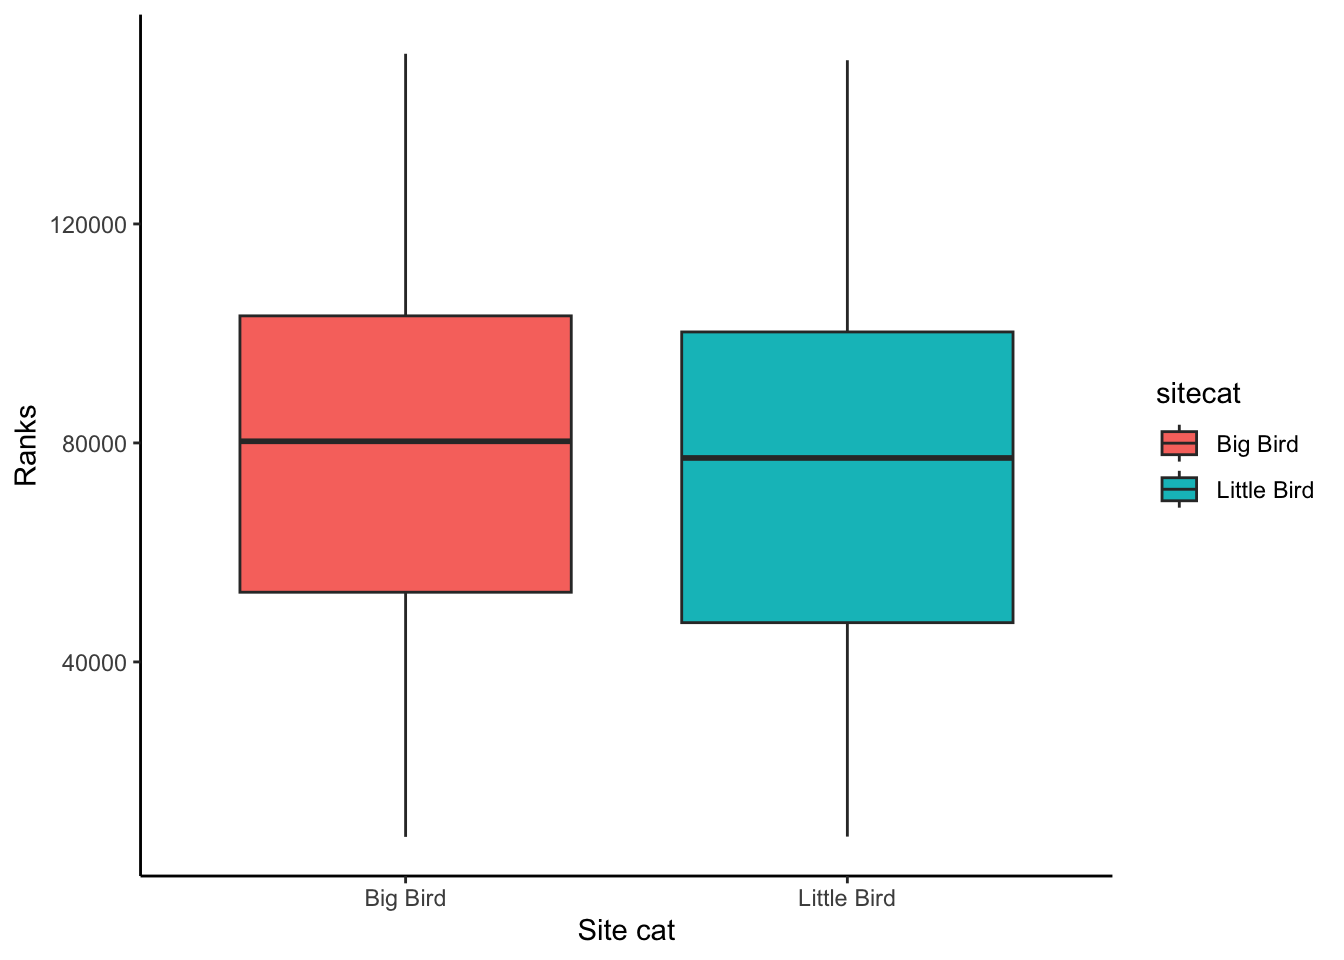
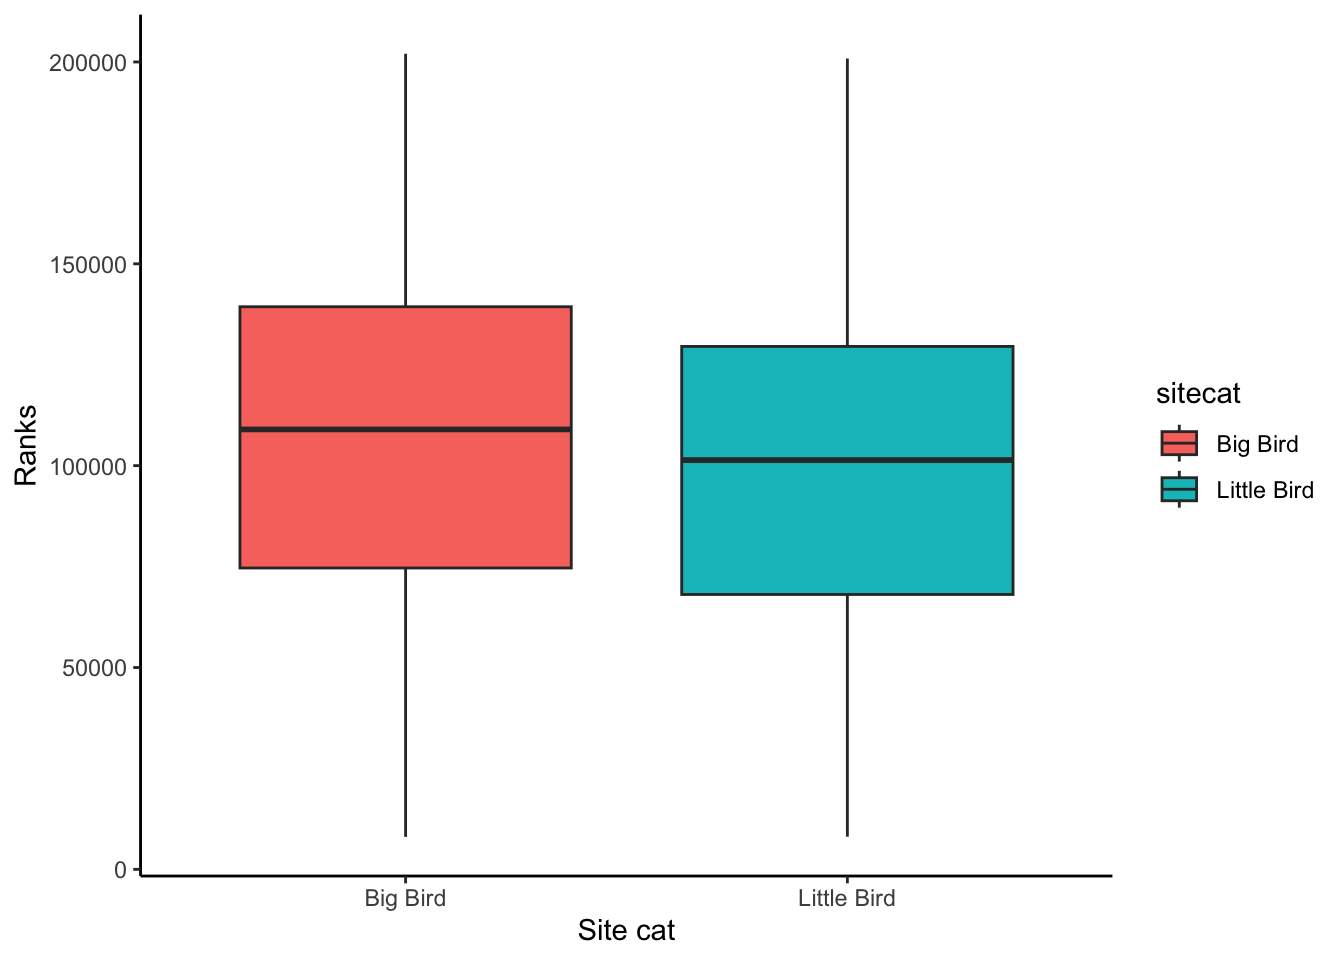
Fall 2024 bioacoustic dataset

diff --git a/docs/bioaco.html b/docs/bioaco.html
@@ -11,7 +11,7 @@
 
 <meta name="author" content="" />
 
-<meta name="date" content="2024-10-22" />
+<meta name="date" content="2024-10-28" />
 
 <title>Bioacoustic analyses</title>
 
@@ -384,6 +384,9 @@ div.tocify {
     <li>
       <a href="bioaco.html">Analyzing sound data</a>
     </li>
+    <li>
+      <a href="acoJoin.html">Joining external data</a>
+    </li>
   </ul>
 </li>
       </ul>
@@ -400,7 +403,7 @@ div.tocify {
 
 <h1 class="title toc-ignore">Bioacoustic analyses</h1>
 <h4 class="author"></h4>
-<h4 class="date">2024-10-22</h4>
+<h4 class="date">2024-10-28</h4>
 
 </div>
 
@@ -548,11 +551,11 @@ library(&quot;mosaic&quot;) # shuffle (permute) our data</code></pre>
 <h2><span class="header-section-number">2.2</span> 2: Read data</h2>
 <p>Next, we will pull in our data and inspect it.</p>
 <pre class="r"><code>### Load in dataset
-soundDF &lt;- readr::read_tsv(&quot;https://github.com/chchang47/BIOL104PO/raw/refs/heads/master/data/bioacousticAY22-23.tsv&quot;) # read in spreadsheet from its URL and store in soundDF
+soundDF &lt;- readr::read_tsv(&quot;https://github.com/EA30POM/site/raw/main/data/bioacousticAY22-24.tsv&quot;) # read in spreadsheet from its URL and store in soundDF
 
 ### Look at the first few rows
 soundDF</code></pre>
-<pre><code>## # A tibble: 151,468 × 8
+<pre><code>## # A tibble: 202,433 × 8
 ##    unit  date       time        ACI    SR DayNight Month season
 ##    &lt;chr&gt; &lt;date&gt;     &lt;chr&gt;     &lt;dbl&gt; &lt;dbl&gt; &lt;chr&gt;    &lt;chr&gt; &lt;chr&gt; 
 ##  1 CBio4 2023-03-23 18H 0M 0S  155.     3 Night    March Spring
@@ -565,7 +568,7 @@ soundDF</code></pre>
 ##  8 CBio4 2023-03-23 18H 7M 0S  152.     2 Night    March Spring
 ##  9 CBio4 2023-03-23 18H 8M 0S  152.     3 Night    March Spring
 ## 10 CBio4 2023-03-23 18H 9M 0S  153.     7 Night    March Spring
-## # ℹ 151,458 more rows</code></pre>
+## # ℹ 202,423 more rows</code></pre>
 <pre class="r"><code>### Look at the first few rows in a spreadsheet viewer
 soundDF %&gt;% head() %&gt;% View()</code></pre>
 <p>We see that there are the following columns:</p>
@@ -661,11 +664,11 @@ summary statistics and visualize your variable.</p>
 tapply(soundDF$ChangVar, soundDF$sitecat, summary) </code></pre>
 <pre><code>## $`Big Bird`
 ##    Min. 1st Qu.  Median    Mean 3rd Qu.    Max. 
-##    8046   52731   80302   77683  103211  151085 
+##    8046   74650  108979  105034  139365  202032 
 ## 
 ## $`Little Bird`
 ##    Min. 1st Qu.  Median    Mean 3rd Qu.    Max. 
-##    8095   47172   77256   73805  100275  149904</code></pre>
+##    8095   68090  101380   97349  129534  200852</code></pre>
 <pre class="r"><code>  # use sitecat as the grouping variable
   # for ChangVar and then summarize ChangVar
   # for each sitecat (site characteristics)</code></pre>
@@ -733,14 +736,14 @@ values of <code>ChangVar</code> for the Big Bird vs. Little Bird sites.
 We can start by calculating the mean difference we observe.</p>
 <pre class="r"><code>mean( ChangVar ~ sitecat, data = soundDF , na.rm=T) # show mean ChangVar values for the Big and Little Bird sites, removing missing data</code></pre>
 <pre><code>##    Big Bird Little Bird 
-##    77682.87    73805.17</code></pre>
+##   105033.65    97348.68</code></pre>
 <pre class="r"><code>obs_diff &lt;- diff( mean( ChangVar ~ sitecat, data = soundDF , na.rm=T)) # calculate the difference between the means and store in a variable called &quot;obs_diff&quot;
 obs_diff # display the value of obs_diff</code></pre>
 <pre><code>## Little Bird 
-##   -3877.701</code></pre>
+##   -7684.975</code></pre>
 <p>OK, so the mean difference in mean values between Big and Little Bird
-sites is -3877.7. Is this difference meaningful though? We can test that
-by specifying an opposing <strong>null hypothesis</strong>.</p>
+sites is -7684.97. Is this difference meaningful though? We can test
+that by specifying an opposing <strong>null hypothesis</strong>.</p>
 <p>In this case, our null hypothesis would be that there is no
 difference in <code>ChangVar</code> across <code>sitecat</code>.</p>
 <p>Logically, if there is a meaningful difference, then if we shuffle
@@ -761,13 +764,13 @@ names(randomizing_diffs)[1] &lt;- &quot;DiffMeans&quot; # change the name of the
 
 # View first few rows of data
 head(randomizing_diffs)</code></pre>
-<pre><code>##    DiffMeans
-## 1  201.91668
-## 2  107.21028
-## 3  -70.09207
-## 4 -259.21337
-## 5  -89.13740
-## 6  239.40673</code></pre>
+<pre><code>##     DiffMeans
+## 1  -81.402340
+## 2    8.934357
+## 3 -381.107355
+## 4 -164.055170
+## 5  137.156645
+## 6  -55.831277</code></pre>
 <p>Now we can visualize the distribution of simulated differences in the
 mean values of <code>ChangVar</code> at the Big and Little Bird sites
 versus our observed difference in means. Note that the observed
@@ -809,7 +812,7 @@ data.</p>
 <pre class="r"><code>### Calculate observed correlation
 obs_cor &lt;- cor(ChangVar ~ sitenum, data=soundDF, use=&quot;complete.obs&quot;) # store observed correlation in obs_cor of ChangVar vs sitenum
 obs_cor # print out value</code></pre>
-<pre><code>## [1] 0.05162087</code></pre>
+<pre><code>## [1] 0.06280265</code></pre>
 <p>Let’s say that I’m interested in determining if <code>ChangVar</code>
 is actually positively correlated with <code>sitenum</code>. We can test
 this against the opposing null hypothesis. Our null hypothesis could be
@@ -836,7 +839,7 @@ when we shuffle our data?</p>
 <pre class="r"><code>quantiles_cor &lt;- qdata( ~ cor, p = c(0.025, 0.975), data=randomizing_cor) # calculate the 2.5% and 97.5% quantiles in our simulated correlation coefficient data (note that 97.5-2.5 = 95!)
 quantiles_cor # display the quantiles</code></pre>
 <pre><code>##       2.5%      97.5% 
-## 0.04668164 0.05687103</code></pre>
+## 0.05849326 0.06710745</code></pre>
 <p>The values above give us a 95% confidence interval estimate for our
 correlation coefficient!</p>
 <p>Do we clearly see that our correlation coefficient distribution does
@@ -872,7 +875,7 @@ library(&quot;mosaic&quot;) # shuffle (permute) our data
 ###=========================================
 
 ### Load in dataset
-soundDF &lt;- readr::read_tsv(&quot;https://github.com/chchang47/BIOL104PO/raw/refs/heads/master/data/bioacousticAY22-23.tsv&quot;) # read in spreadsheet from its URL and store in soundDF
+soundDF &lt;- readr::read_tsv(&quot;https://github.com/EA30POM/site/raw/main/data/bioacousticAY22-24.tsv&quot;) # read in spreadsheet from its URL and store in soundDF
 
 ### Look at the first few rows
 soundDF

diff --git a/docs/acoJoin.html b/docs/acoJoin.html
@@ -549,11 +549,11 @@ library(&quot;lubridate&quot;) # package to handle datetime objects</code></pre>
 <h2><span class="header-section-number">2.2</span> 2: Read data</h2>
 <p>Next, we will pull in our data and inspect it.</p>
 <pre class="r"><code>### Load in dataset
-soundDF &lt;- readr::read_tsv(&quot;https://github.com/chchang47/BIOL104PO/raw/refs/heads/master/data/bioacousticAY22-23.tsv&quot;) # read in spreadsheet from its URL and store in soundDF
+soundDF &lt;- readr::read_tsv(&quot;https://github.com/EA30POM/site/raw/main/data/bioacousticAY22-24.tsv&quot;) # read in spreadsheet from its URL and store in soundDF
 
 ### Look at the first few rows
 soundDF</code></pre>
-<pre><code>## # A tibble: 151,468 × 8
+<pre><code>## # A tibble: 202,433 × 8
 ##    unit  date       time        ACI    SR DayNight Month season
 ##    &lt;chr&gt; &lt;date&gt;     &lt;chr&gt;     &lt;dbl&gt; &lt;dbl&gt; &lt;chr&gt;    &lt;chr&gt; &lt;chr&gt; 
 ##  1 CBio4 2023-03-23 18H 0M 0S  155.     3 Night    March Spring
@@ -566,7 +566,7 @@ soundDF</code></pre>
 ##  8 CBio4 2023-03-23 18H 7M 0S  152.     2 Night    March Spring
 ##  9 CBio4 2023-03-23 18H 8M 0S  152.     3 Night    March Spring
 ## 10 CBio4 2023-03-23 18H 9M 0S  153.     7 Night    March Spring
-## # ℹ 151,458 more rows</code></pre>
+## # ℹ 202,423 more rows</code></pre>
 <pre class="r"><code>### Load AQI and/or temperature datasets
 aqi_df &lt;- readr::read_csv(&quot;https://github.com/EA30POM/site/raw/main/data/claremont_aqi_data.csv&quot;)
 temp_df &lt;- readr::read_csv(&quot;https://github.com/EA30POM/site/raw/main/data/claremont_average_temperature.csv&quot;)</code></pre>
@@ -621,7 +621,7 @@ library(&quot;mosaic&quot;) # shuffle (permute) our data
 library(&quot;lubridate&quot;) # package to handle datetime objects
 
 ### Load in dataset
-soundDF &lt;- readr::read_tsv(&quot;https://github.com/chchang47/BIOL104PO/raw/refs/heads/master/data/bioacousticAY22-23.tsv&quot;) # read in spreadsheet from its URL and store in soundDF
+soundDF &lt;- readr::read_tsv(&quot;https://github.com/EA30POM/site/raw/main/data/bioacousticAY22-24.tsv&quot;) # read in spreadsheet from its URL and store in soundDF
 
 ### Look at the first few rows
 soundDF

diff --git a/docs/Sound.html b/docs/Sound.html
@@ -383,6 +383,9 @@ div.tocify {
     <li>
       <a href="bioaco.html">Analyzing sound data</a>
     </li>
+    <li>
+      <a href="acoJoin.html">Joining external data</a>
+    </li>
   </ul>
 </li>
       </ul>
@@ -555,8 +558,8 @@ the 3000 species supported by the model) with some probability (a.k.a.
 <code>confidence</code>).</p>
 <p>Let’s take a look at the data.</p>
 <pre class="r"><code># Read in a spreadsheet from a URL using read_tsv from the readr package
-soundDF &lt;- readr::read_tsv(&quot;https://github.com/chchang47/BIOL104PO/raw/refs/heads/master/data/bioacousticAY22-23.tsv&quot;) # read in spreadsheet from its URL and store in soundDF</code></pre>
-<pre><code>## Rows: 151468 Columns: 8
+soundDF &lt;- readr::read_tsv(&quot;https://github.com/EA30POM/site/raw/main/data/bioacousticAY22-24.tsv&quot;) # read in spreadsheet from its URL and store in soundDF</code></pre>
+<pre><code>## Rows: 202433 Columns: 8
 ## ── Column specification ────────────────────────────────────────────────────────
 ## Delimiter: &quot;\t&quot;
 ## chr  (5): unit, time, DayNight, Month, season
@@ -667,8 +670,8 @@ soundDF %&gt;%
 <pre><code>## # A tibble: 2 × 2
 ##   DayNight meanSpecies
 ##   &lt;chr&gt;          &lt;dbl&gt;
-## 1 Day             3.45
-## 2 Night           1.59</code></pre>
+## 1 Day             3.57
+## 2 Night           1.75</code></pre>
 <pre class="r"><code>  # How would you build on this to look at other variables of interest?</code></pre>
 </div>
 <div id="r-script" class="section level1" number="5">
@@ -699,7 +702,7 @@ ACI(BFS_am_1)
 ACI(BFS_pm_1)
 
 # Read in a spreadsheet from a URL using read_tsv from the readr package
-soundDF &lt;- readr::read_tsv(&quot;https://raw.githubusercontent.com/chchang47/BIOL104PO/refs/heads/master/data/bioacousticAY22-23.tsv&quot;) # read in spreadsheet from its URL and store in soundDF
+soundDF &lt;- readr::read_tsv(&quot;https://github.com/EA30POM/site/raw/main/data/bioacousticAY22-24.tsv&quot;) # read in spreadsheet from its URL and store in soundDF
 
 # Inspect the data
 soundDF %&gt;% head() # look at the first 6 rows
